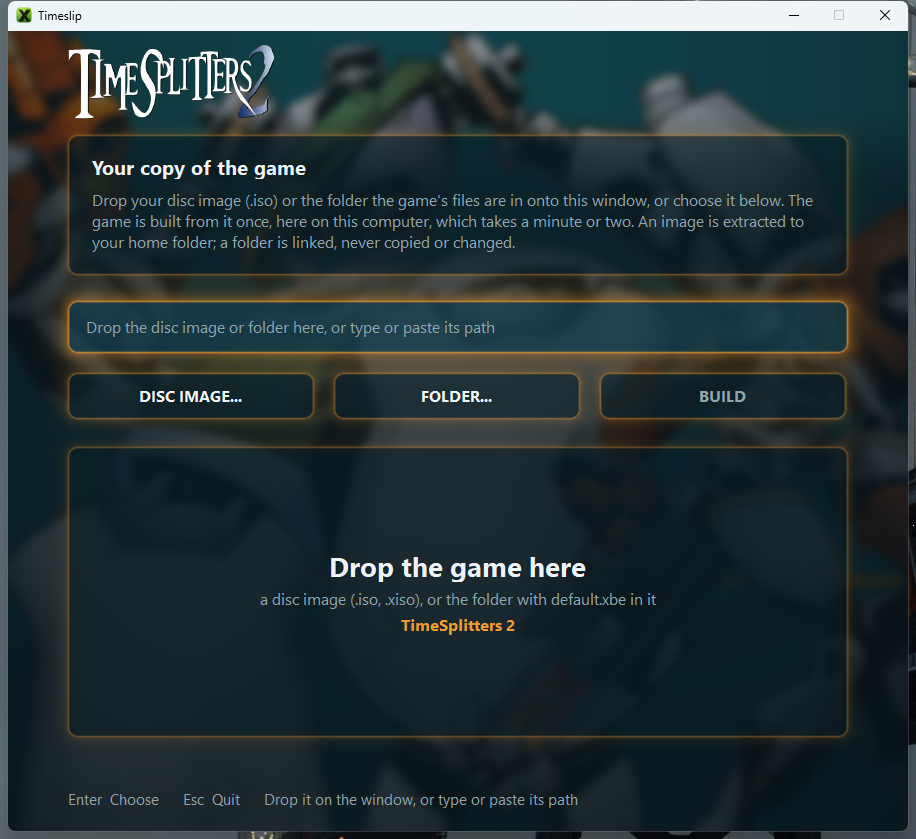
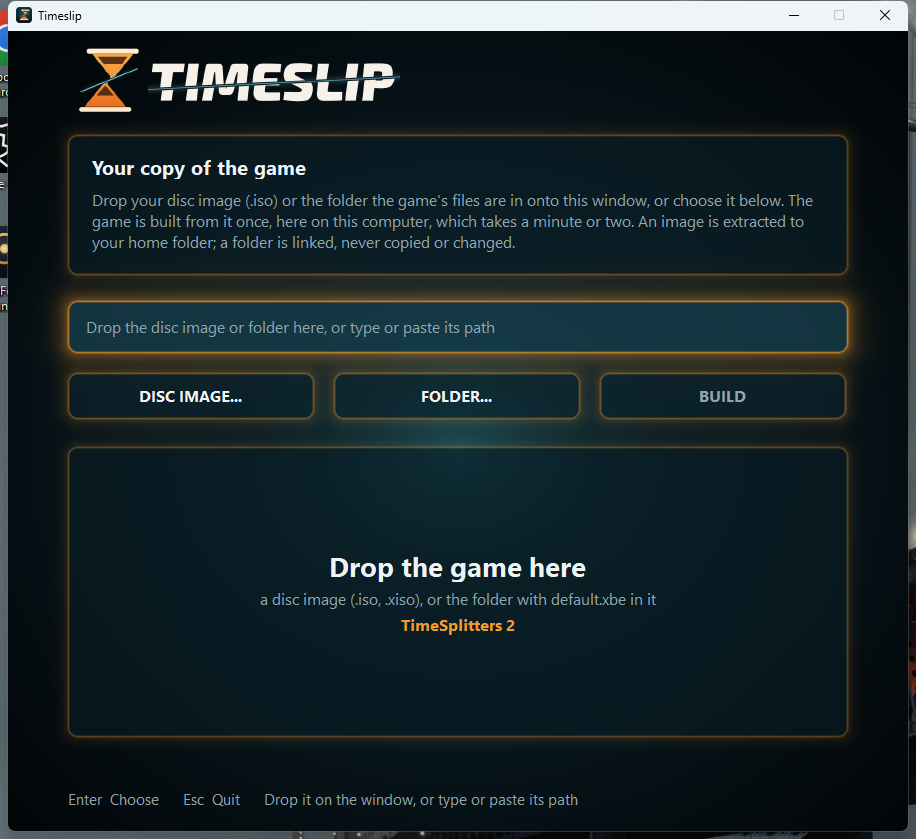
Launcher: Timeslip's own mark by default; the game's art only on request
Recompose 9-line change: the launcher no longer downloads TimeSplitters 2's
key art and logo unasked (RECOMP_LAUNCHER_FETCH_ART=1 does). By default it
shows Timeslip's own logo (art/logo-launcher.png, compiled in) over its own
background; a backdrop of the game's comes from the player (art/ beside the
launcher, or mac/make_art.sh from their own copy). README screenshots and
credits follow.

diff --git a/src/launcher_theme_timeslip.h b/src/launcher_theme_timeslip.h
@@ -1,16 +1,16 @@
 /*
  * The launcher's look for Timeslip (recompose src/launcher/launcher_theme.h):
- * colours taken from TimeSplitters 2's own key art -- a deep teal, and the
- * orange of its stripe and the gun's muzzle -- and where that art is fetched
- * from.
+ * a deep teal and an orange, after TimeSplitters 2's key art.
  *
- * The pictures are not in this repository or its releases. The launcher
- * fetches them once into the player's art cache (recompose
- * src/launcher/launcher_art.c) from the LaunchBox Games Database's image
- * host: the GameCube release's fanart background (the Xbox release has none
- * there, and the art is the same game's) and the Xbox release's clear logo.
- * Offline, or until they arrive, the launcher draws its own background in
- * these colours and writes the game's name instead.
+ * By default the launcher shows Timeslip's own mark (art/logo-launcher.png,
+ * compiled in) over its own background in these colours. A backdrop of the
+ * game's comes only from the player: an art/ folder beside the launcher, or
+ * the art cache (recompose src/launcher/launcher_art.c), which Timeslip's
+ * mac/make_art.sh fills from the player's own copy of the game. The two
+ * addresses below -- the LaunchBox Games Database's copies of the GameCube
+ * release's fanart and the Xbox release's clear logo -- are fetched only if
+ * the player asks (RECOMP_LAUNCHER_FETCH_ART=1): they are the publisher's
+ * art, and nothing here downloads it unasked.
  */
 #ifndef TIMESLIP_LAUNCHER_THEME_H
 #define TIMESLIP_LAUNCHER_THEME_H

diff --git a/tools/art/make_art.py b/tools/art/make_art.py
@@ -255,6 +255,10 @@ def main():
     logo.alpha_composite(em, (0, (logo.height - em.height) // 2))
     logo.alpha_composite(wm, (em.width + gap, (logo.height - wm.height) // 2))
     logo.save(os.path.join(out, 'logo.png'))
+    # The launcher's, compiled into it (recomp_add_launcher LOGO): drawn about
+    # 340 units wide, so 700 px is sharp at twice that on a Retina display.
+    logo.resize((700, round(logo.height * 700 / logo.width)), Image.LANCZOS).save(
+        os.path.join(out, 'logo-launcher.png'), optimize=True)
     dark = to_img(field(logo.width + 160, logo.height + 120, 0.3, 0.5))
     dark.paste(logo, (80, 60), logo)
     dark.save(os.path.join(out, 'logo-dark.png'))

diff --git a/README.md b/README.md
@@ -423,12 +423,14 @@ originals; phobos665 can be supported on [Ko-fi](https://ko-fi.com/phobos665).
 
 Timeslip's own icon, logo and box art (`art/`) are drawn by
 `tools/art/make_art.py` and set in [Exo 2](https://github.com/googlefonts/Exo-2.0)
-(SIL Open Font License, `tools/art/fonts/OFL.txt`). The launcher's backdrop
-and the game's logo in it are TimeSplitters 2's own art: they are not in this
-repository or its releases, but fetched once onto the player's computer from
+(SIL Open Font License, `tools/art/fonts/OFL.txt`); the launcher shows that
+mark. Nothing of the game's art is in this repository or its releases, and
+the launcher downloads none of it unless you ask: a `backdrop` and `logo`
+(JPEG or PNG) in an `art/` folder beside the launcher are shown instead,
+which `mac/make_art.sh` makes from your own copy of the game on a Mac, and
+`RECOMP_LAUNCHER_FETCH_ART=1` fetches the game's key art and logo once from
 the [LaunchBox Games Database](https://gamesdb.launchbox-app.com/)
-(`src/launcher_theme_timeslip.h`), and an `art/` folder beside the launcher
-with a `backdrop` and `logo` of your own takes their place.
+(`src/launcher_theme_timeslip.h`).
 
 # Legal
 
